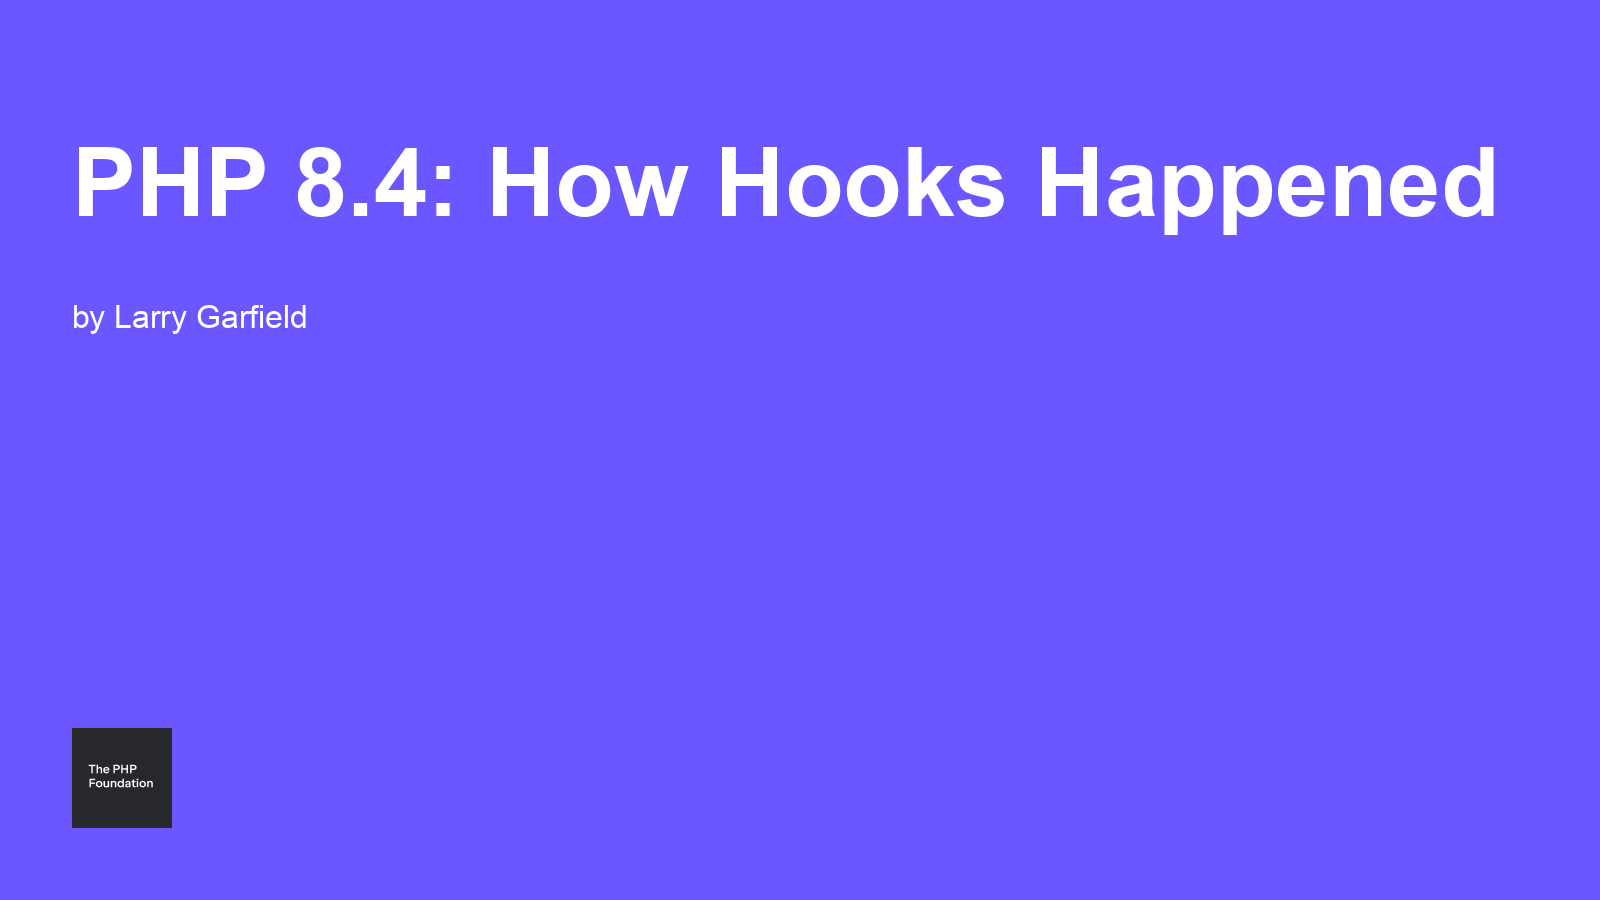
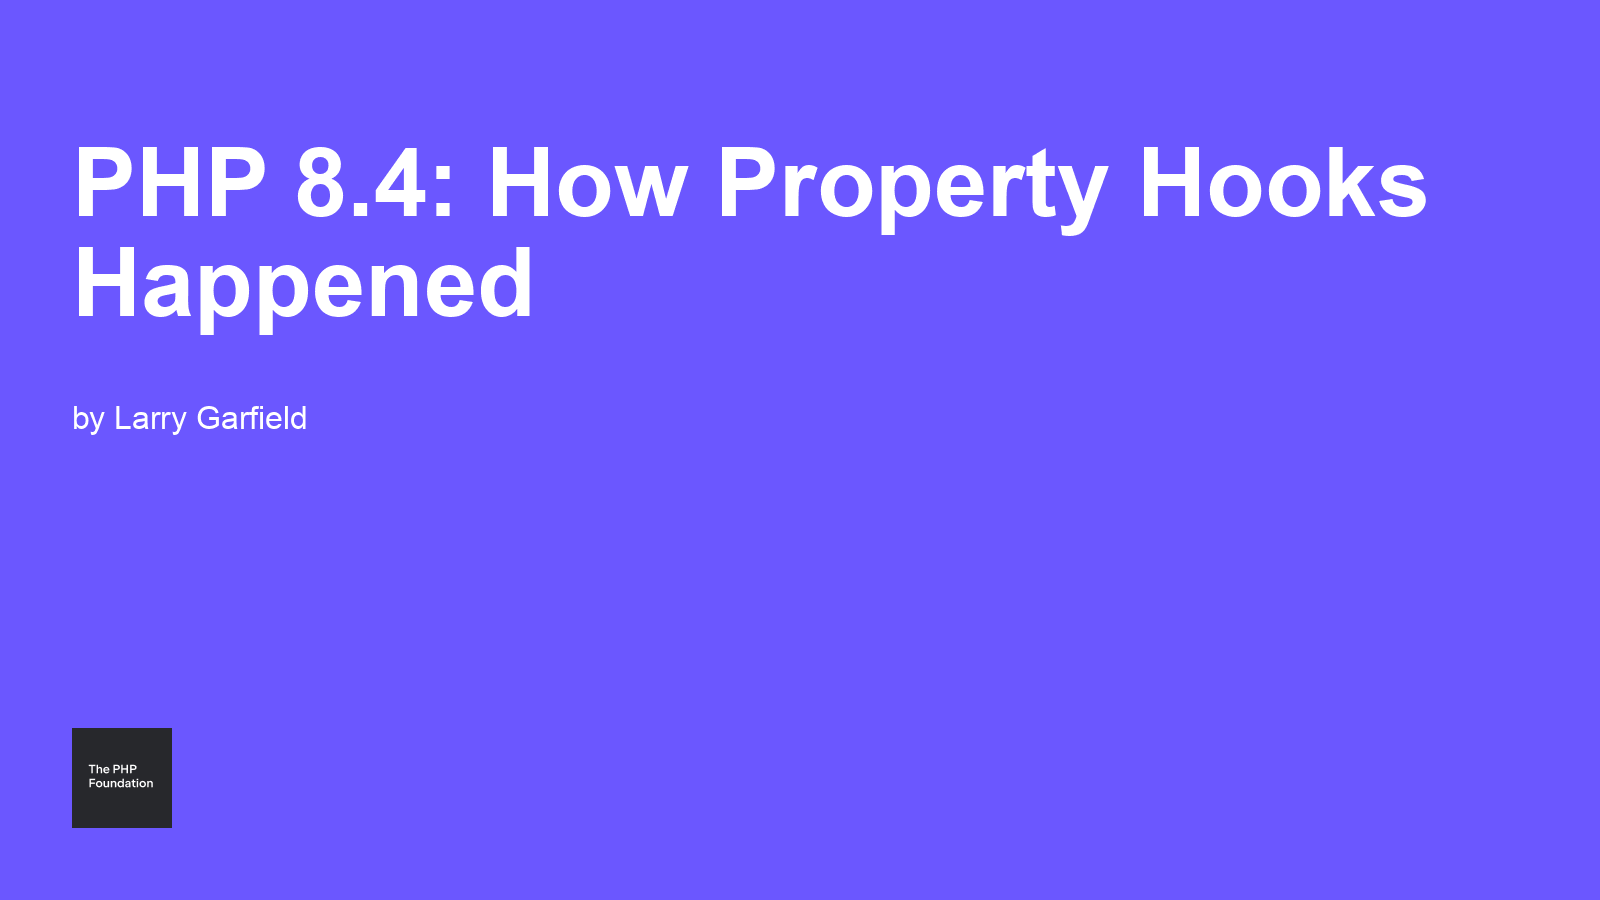
deploy: 66a16726e26f17260585be4d924a97ce1de53b36

Changed region(s): [[0.4375, 0.1556, 0.9375, 0.28], [0.0312, 0.28, 0.3438, 0.3733], [0.0312, 0.4356, 0.1875, 0.4978]]

diff --git a/blog/2024/11/01/how-hooks-happened/index.html b/blog/2024/11/01/how-hooks-happened/index.html
@@ -1,7 +1,7 @@
 <!DOCTYPE html>
 <html lang="en">
 <head>
-    <title>PHP 8.4: How Hooks Happened &mdash; The PHP Foundation &mdash; Supporting, Advancing, and Developing the PHP Language</title>
+    <title>PHP 8.4: How Property Hooks Happened &mdash; The PHP Foundation &mdash; Supporting, Advancing, and Developing the PHP Language</title>
     <meta name="description" content="The PHP Foundation &mdash; Supporting, Advancing, and Developing the PHP Language">
     <meta charset="utf-8">
     <meta name="theme-color" content="#ffffff">
@@ -21,14 +21,14 @@
 
     <meta property="og:url" content="https://thephp.foundation/blog/2024/11/01/how-hooks-happened/">
     <meta property="og:type" content="website">
-    <meta property="og:title" content="PHP 8.4: How Hooks Happened">
+    <meta property="og:title" content="PHP 8.4: How Property Hooks Happened">
     <meta property="og:description" content="The PHP Foundation &mdash; Supporting, Advancing, and Developing the PHP Language">
     <meta property="og:image" content="https://thephp.foundation/assets/share/2024-11-01-how-hooks-happened.png">
 
     <meta name="twitter:card" content="summary_large_image">
     <meta property="twitter:domain" content="https://thephp.foundation">
     <meta property="twitter:url" content="https://thephp.foundation/blog/2024/11/01/how-hooks-happened/">
-    <meta name="twitter:title" content="PHP 8.4: How Hooks Happened">
+    <meta name="twitter:title" content="PHP 8.4: How Property Hooks Happened">
     <meta name="twitter:description" content="The PHP Foundation &mdash; Supporting, Advancing, and Developing the PHP Language">
     <meta name="twitter:image" content="https://thephp.foundation/assets/share/2024-11-01-how-hooks-happened.png">
 
@@ -153,7 +153,7 @@
 
 <div class="bg-white px-6 lg:px-8 my-16" itemscope itemtype="https://schema.org/Article">
     <div class="mx-auto max-w-3xl text-base leading-7 text-gray-700">
-        <h1 class="mt-2 text-3xl font-bold tracking-tight text-gray-900 sm:text-4xl" itemprop="name">PHP 8.4: How Hooks Happened</h1>
+        <h1 class="mt-2 text-3xl font-bold tracking-tight text-gray-900 sm:text-4xl" itemprop="name">PHP 8.4: How Property Hooks Happened</h1>
 
         <div class="flex items-center gap-x-4 text-xs mt-2">
                 <div>

diff --git a/blog/2024/10/21/web-services-tool-for-php-fpm/index.html b/blog/2024/10/21/web-services-tool-for-php-fpm/index.html
@@ -305,7 +305,7 @@ spec:
                                 <a href="https://thephp.foundation/blog/2024/11/01/how-hooks-happened/"
                    class="flex flex-col w-1/2 border p-2 mx-2 rounded hover:border-[rgba(127,82,255,.8)] transition-all no-underline">
                     <div class="mb-1 text-sm text-gray-600 font-medium">Next</div>
-                    <div class="font-bold text-blue-500">PHP 8.4: How Hooks Happened</div>
+                    <div class="font-bold text-blue-500">PHP 8.4: How Property Hooks Happened</div>
                 </a>
                             </nav>
             

diff --git a/blog/index.html b/blog/index.html
@@ -175,7 +175,7 @@
             <div class="group relative">
                 <h3 class="mt-3 mb-2 text-lg font-semibold leading-6">
                     <a href="https://thephp.foundation/blog/2024/11/01/how-hooks-happened/" class="no-underline border-b" itemprop="url">
-                        <span itemprop="name">PHP 8.4: How Hooks Happened</span>
+                        <span itemprop="name">PHP 8.4: How Property Hooks Happened</span>
                     </a>
                 </h3>
                 

diff --git a/index.html b/index.html
@@ -200,7 +200,7 @@
                 </div>
                 <h3 class="mt-3 mb-2 text-lg font-semibold leading-6">
                     <a href="https://thephp.foundation/blog/2024/11/01/how-hooks-happened/" class="no-underline border-b">
-                        PHP 8.4: How Hooks Happened
+                        PHP 8.4: How Property Hooks Happened
                     </a>
                 </h3>
                 <div class="mt-5 line-clamp-3 text-sm leading-6 text-gray-600">

diff --git a/blog/tag/stories/index.html b/blog/tag/stories/index.html
@@ -171,7 +171,7 @@
             <div class="group relative">
                 <h3 class="mt-3 mb-2 text-lg font-semibold leading-6">
                     <a href="https://thephp.foundation/blog/2024/11/01/how-hooks-happened/" class="no-underline border-b">
-                        PHP 8.4: How Hooks Happened
+                        PHP 8.4: How Property Hooks Happened
                     </a>
                 </h3>
                                 <div class="mt-2 text-xs">
